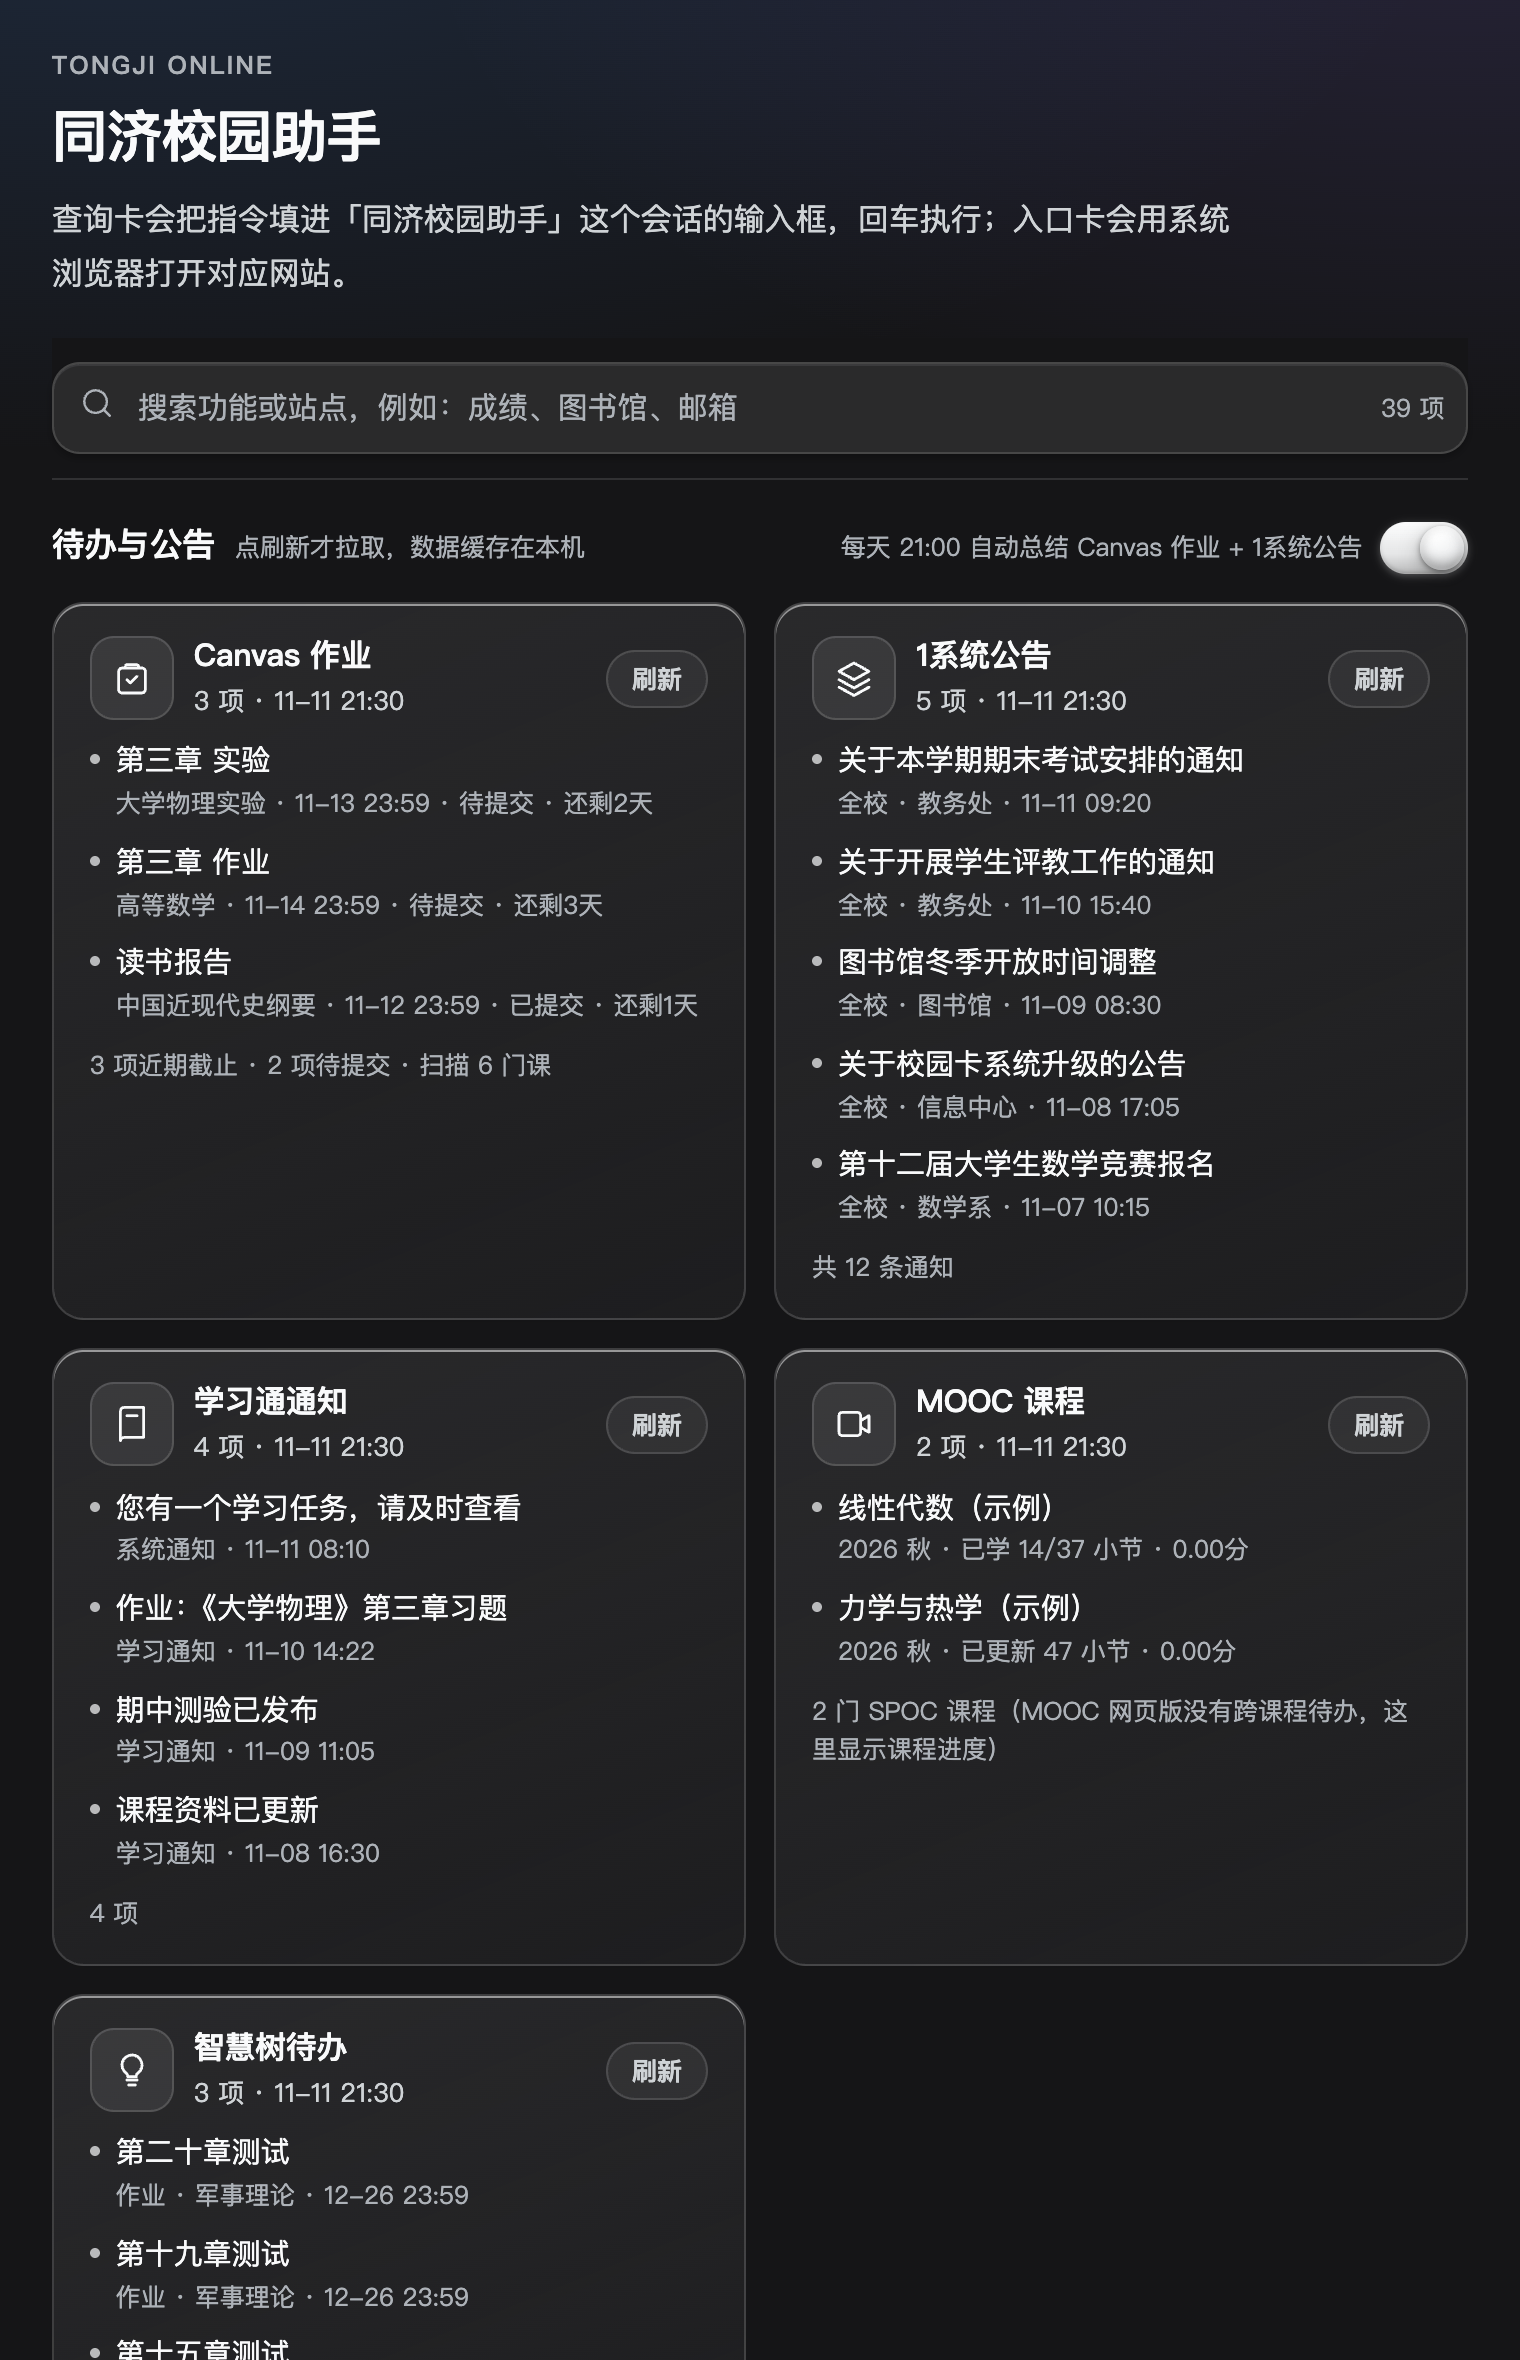
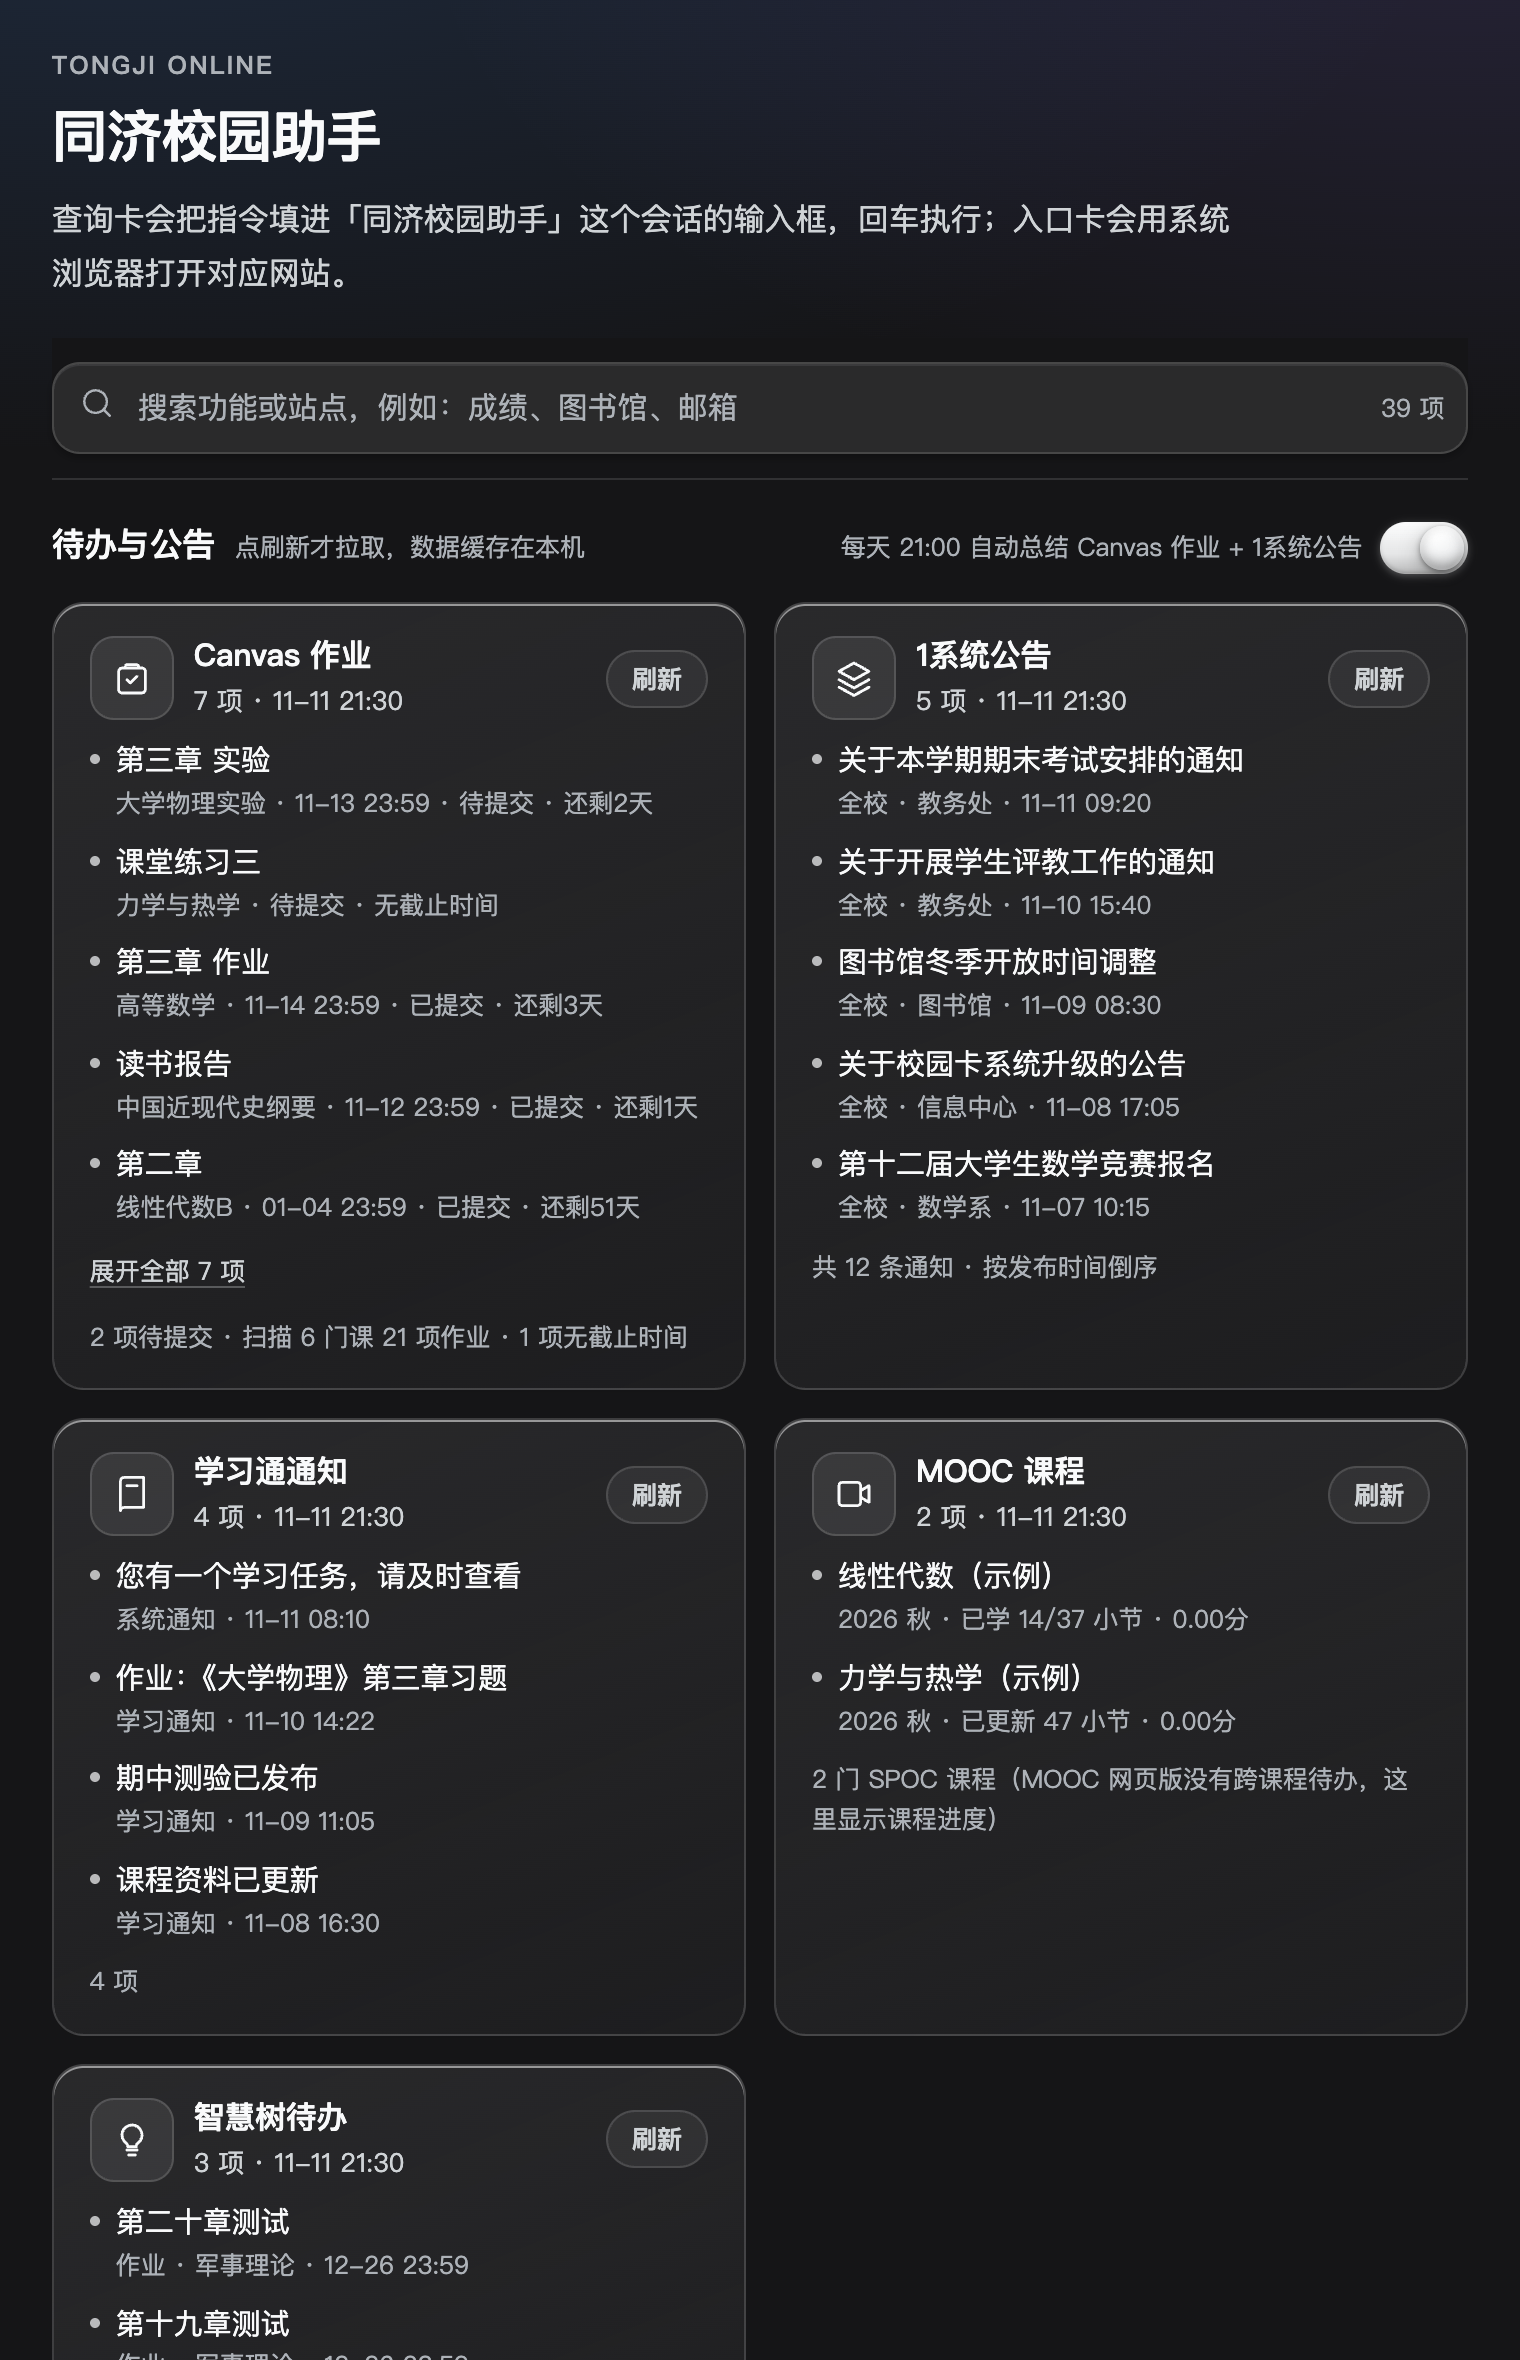
fix: Canvas 不再丢无截止时间的作业，1系统公告按发布时间倒序

diff --git a/lib/client.js b/lib/client.js
@@ -423,6 +423,8 @@ window.__ModuleLoader__.load({
 .to-tj-list-open{flex:none;margin-top:2px;color:var(--dsw-alias-label-tertiary,#8a8a8a);text-decoration:none;opacity:.7}
 .to-tj-list-open:hover{opacity:1;color:var(--dsw-alias-label-primary,#1a1a1a)}
 .to-tj-data-note{margin:0;font-size:calc(var(--tj-text) - 1.5px);line-height:1.55;color:var(--dsw-alias-label-tertiary,#8a8a8a)}
+.to-tj-more{align-self:flex-start;margin:0;padding:3px 0;border:0;background:none;cursor:pointer;font:inherit;font-size:calc(var(--tj-text) - 1.5px);line-height:1.5;color:var(--dsw-alias-label-secondary,#666);text-decoration:underline;text-decoration-color:color-mix(in srgb,currentColor 32%,transparent);text-underline-offset:2.5px;transition:color .16s ease}
+.to-tj-more:hover{color:var(--dsw-alias-label-primary,#1a1a1a)}
 .to-tj-data-error{margin:0;font-size:calc(var(--tj-text) - 1.5px);line-height:1.55;color:var(--dsw-alias-state-error-primary,#d33)}
 .to-tj-data-empty{margin:0;font-size:calc(var(--tj-text) - 1.5px);line-height:1.6;color:var(--dsw-alias-label-tertiary,#8a8a8a)}
 .to-tj-data-foot{display:flex;align-items:center;gap:10px;flex-wrap:wrap;margin:0 0 14px}
@@ -960,11 +962,16 @@ body[data-ds-dark-theme] .to-tj-search input{
 				return `${pad(d.getMonth() + 1)}-${pad(d.getDate())} ${pad(d.getHours())}:${pad(d.getMinutes())}`;
 			}
 
+			const LIST_PREVIEW = 5;
+
 			function DataCard({ source, state, busy, onRefresh }) {
 				const entry = state?.sources?.[source.id];
 				const items = Array.isArray(entry?.items) ? entry.items : [];
 				const updated = state?.updatedAt?.[source.id];
-				const shown = items.slice(0, 5);
+				// Canvas 一次能扫出十几项作业，只露 5 项会让人以为就这么多，给个展开。
+				const [expanded, setExpanded] = React.useState(false);
+				const shown = expanded ? items : items.slice(0, LIST_PREVIEW);
+				const hidden = items.length - shown.length;
 				return h(
 					"article",
 					{ className: "to-tj-data" },
@@ -1022,7 +1029,17 @@ body[data-ds-dark-theme] .to-tj-search input{
 						: null,
 					entry && !entry.error && items.length === 0 ? h("p", { className: "to-tj-data-empty" }, "没有待办，干净。") : null,
 					!entry ? h("p", { className: "to-tj-data-empty" }, "还没拉过数据，点右上角刷新。") : null,
-					items.length > shown.length ? h("p", { className: "to-tj-data-note" }, `还有 ${items.length - shown.length} 项未显示`) : null,
+					hidden > 0 || (expanded && items.length > LIST_PREVIEW)
+						? h(
+								"button",
+								{
+									type: "button",
+									className: "to-tj-more",
+									onClick: () => setExpanded((value) => !value)
+								},
+								expanded ? "收起" : `展开全部 ${items.length} 项`
+							)
+						: null,
 					entry?.note ? h("p", { className: "to-tj-data-note" }, entry.note) : null
 				);
 			}
